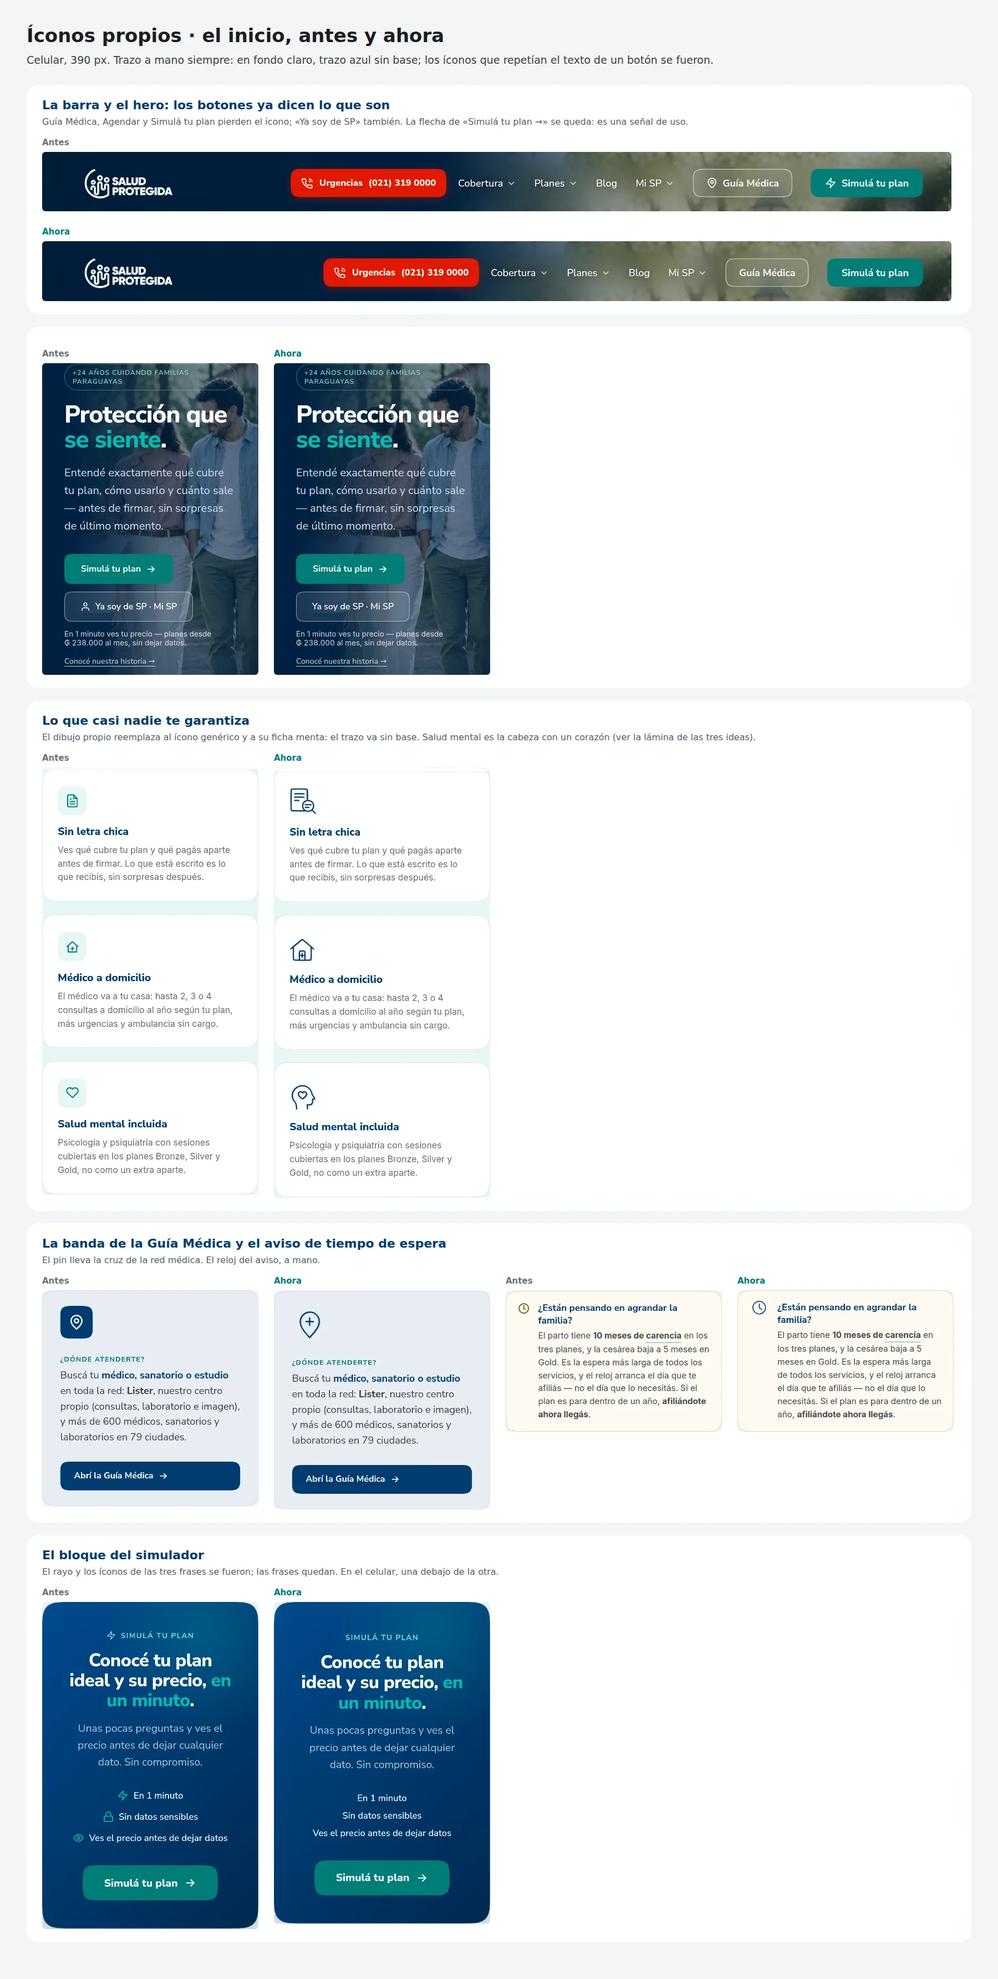
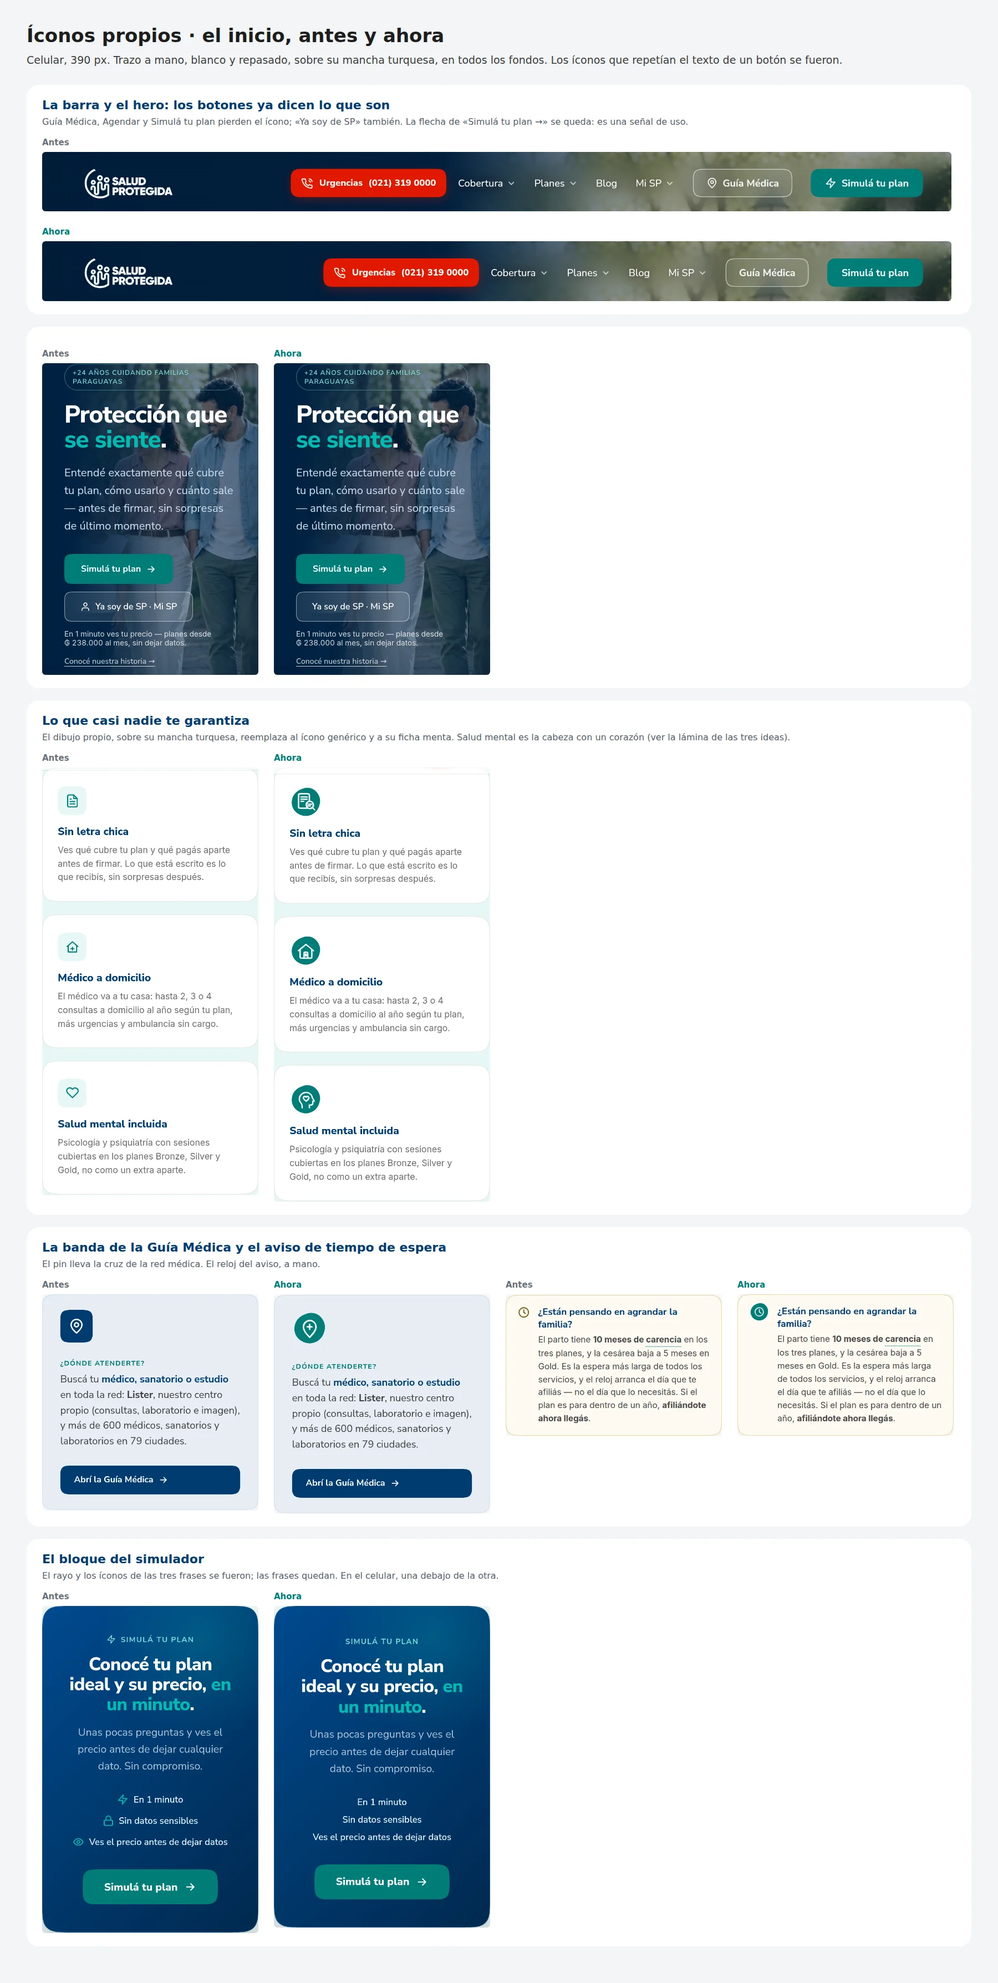
Íconos: A3 en todas partes, con el trazo repasado
Arturo: «no era que íbamos a seleccionar todo A3?» y «Hay algo humano y
auténtico en eso». Todos los íconos propios van en trazo blanco sobre su
mancha turquesa, en cualquier fondo; el trazo va repasado para que la mano
se siga viendo dentro del círculo. Las portadas del blog, el mismo trazo
repasado sobre su base translúcida.

- IconoSP sin la prop `fondo`; márgenes de las tarjetas ajustados.
- Láminas: comparación en siete lugares reales y el repasado; antes y
  ahora y el juego completo, rehechos en A3.
- README lección 13 reescrita y lección 16; BITACORA cap. 98; HANDOFF y
  la regla de CLAUDE.md.

Claude-Session: https://claude.ai/code/session_01Mud5keuuBCwoWTMHuiZFvU

diff --git a/app/components/IconoSP.jsx b/app/components/IconoSP.jsx
@@ -1,41 +1,34 @@
 import { DIBUJOS, MANCHA } from './iconos-sp';
 
-/* IconoSP — los íconos propios de SP (24/09/2026). Trazo a mano siempre; el
-   color lo decide el fondo, no el ícono (Arturo: «La combinación de colores
-   depende del fondo; debemos elegir la aplicación correcta según el color de
-   fondo»). Medido en la prueba de fondos (docs/diseno, lección 10):
+/* IconoSP — los íconos propios de SP (24/09/2026). Trazo a mano, blanco, sobre
+   su mancha turquesa, en todos los fondos del sitio (A3). Es el único
+   tratamiento que funcionó en los cuatro fondos porque trae su propia base
+   (docs/diseno, lección 10), y el que eligió Arturo: *«no era que íbamos a
+   seleccionar todo A3?»*, y del trazo, *«Hay algo humano y auténtico en eso»*
+   (lección 16).
 
-   - fondo="claro" (blanco, gris de la guía, menta): trazo azul sin base, con
-     el trazo repasado apenas corrido (A2). Sobre azul desaparece (1,3 a 1).
-   - fondo="azul": trazo blanco sobre su mancha turquesa (A3), el único trazo a
-     mano que funciona en los cuatro fondos porque trae su propia base.
+   El trazo va repasado, apenas corrido, como un lápiz que pasó dos veces: es
+   lo que hace que se lea «lo hizo una persona» aunque el dibujo sea chico.
 
    Solo va donde un ícono hace algo que el texto solo no hace (lección 7): en
    un botón que ya dice «Guía Médica», no. Siempre acompaña a un texto, así que
-   el lector de pantalla no lo anuncia. Los dibujos están en ./iconos-sp.js. */
-export default function IconoSP({ nombre, fondo = 'claro', size = 48, style }) {
+   el lector de pantalla no lo anuncia. Los dibujos están en ./iconos-sp.js;
+   las portadas del blog los usan con su propia base (app/blog/Cover.jsx). */
+export default function IconoSP({ nombre, size = 48, style }) {
   const trazos = DIBUJOS[nombre];
   if (!trazos) return null;
-  const caja = { viewBox: '0 0 48 48', width: size, height: size, 'aria-hidden': true, focusable: 'false', style: { display: 'block', flex: 'none', overflow: 'visible', ...style } };
-  const linea = { fill: 'none', strokeLinecap: 'round', strokeLinejoin: 'round' };
   const paths = trazos.map((d) => <path key={d} d={d} />);
-
-  if (fondo === 'azul') {
-    return (
-      <svg {...caja}>
-        <path d={MANCHA} fill="#007d77" />
-        <g transform="translate(24 24.5) scale(.66) translate(-24 -24)" {...linea} stroke="#fff" strokeWidth="3.2">{paths}</g>
-      </svg>
-    );
-  }
-
-  // Al achicarse, el trazo engorda en el dibujo para no bajar de ~1,3 px en
-  // pantalla: a 48 px va a 1,7; a 24 px, a 2,6.
-  const ancho = Math.max(1.7, 62 / size);
+  const linea = { fill: 'none', stroke: '#fff', strokeLinecap: 'round', strokeLinejoin: 'round' };
+  // Al achicarse, el trazo engorda en el dibujo para seguir leyéndose: a 48 px
+  // va a 2,8; a 24 px, a 3,2.
+  const ancho = Math.max(2.8, 76 / size);
   return (
-    <svg {...caja}>
-      <g opacity=".4" transform="translate(.8 .6) rotate(.8 24 24)" {...linea} stroke="#003B71" strokeWidth={+(ancho * 0.82).toFixed(2)}>{paths}</g>
-      <g {...linea} stroke="#003B71" strokeWidth={+ancho.toFixed(2)}>{paths}</g>
+    <svg viewBox="0 0 48 48" width={size} height={size} aria-hidden="true" focusable="false" style={{ display: 'block', flex: 'none', overflow: 'visible', ...style }}>
+      <path d={MANCHA} fill="#007d77" />
+      <g transform="translate(24 24.5) scale(.66) translate(-24 -24)">
+        <g opacity=".45" transform="translate(1.1 .9) rotate(.8 24 24)" {...linea} strokeWidth={+(ancho * 0.78).toFixed(2)}>{paths}</g>
+        <g {...linea} strokeWidth={+ancho.toFixed(2)}>{paths}</g>
+      </g>
     </svg>
   );
 }

diff --git a/app/mi-sp/MiSP.jsx b/app/mi-sp/MiSP.jsx
@@ -34,7 +34,7 @@ export default function MiSP() {
           <div className="misp-grid" style={css('display:grid;grid-template-columns:1.4fr 1fr;gap:16px;margin-bottom:40px')}>
             <a href={`${BP}/guia/guia_home.html#mi-red`} onClick={() => go('ver_red')} className="sq tarjeta-toque" style={css('display:flex;flex-direction:column;justify-content:space-between;gap:18px;background:#fff;color:var(--sp-navy);--sq:var(--r-lg);padding:26px 24px;min-height:190px')}>
               <div>
-                <IconoSP nombre="red" size={52} style={{ marginLeft: -6, marginBottom: 10 }} />
+                <IconoSP nombre="red" size={52} style={{ marginBottom: 12 }} />
                 <div style={css('font-size:19px;font-weight:800;margin-bottom:5px')}>Ver mi red de atención</div>
                 <div style={css('font-size:14px;color:var(--sp-text);line-height:1.55')}>Con tu cédula y fecha de nacimiento, mirá los sanatorios, médicos y farmacias que entran en tu plan.</div>
               </div>
@@ -57,7 +57,7 @@ export default function MiSP() {
           <div className="misp-soon" style={css('display:grid;grid-template-columns:repeat(4,1fr);gap:14px')}>
             {PROXIMAMENTE.map((t, i) => (
               <div key={i} className="sq" style={css('background:rgba(255,255,255,0.05);border:1px dashed rgba(255,255,255,0.22);--sq:var(--r-md);padding:20px 18px')}>
-                <IconoSP nombre={t.icono} fondo="azul" size={46} style={{ marginBottom: 12 }} />
+                <IconoSP nombre={t.icono} size={46} style={{ marginBottom: 12 }} />
                 <div style={css('font-size:14.5px;font-weight:800;color:#fff;margin-bottom:5px')}>{t.title}</div>
                 <div style={css('font-size:12.5px;color:var(--sp-blue-meta);line-height:1.5')}>{t.body}</div>
               </div>

diff --git a/app/blog/Cover.jsx b/app/blog/Cover.jsx
@@ -37,9 +37,10 @@ const DEFAULT_THEME = { g1: '#006B66', g2: '#00BCB4', soft: '#80DDD8', ring: '#B
 // El ícono de cada categoría es de la misma mano que el resto del sitio
 // (app/components/iconos-sp.js, 24/09/2026): papel, edificio con cruz,
 // escudo, corazón y sol sobre el horizonte; sin categoría, el libro. Va en
-// trazo blanco sobre la base translúcida de la portada, no sobre la mancha
-// turquesa de A3: sobre Sage, Lavender o Terracota la mancha mezclaría dos
-// territorios, que la marca no permite.
+// trazo blanco repasado, como en todo el sitio, pero sobre la base
+// translúcida de la portada y no sobre la mancha turquesa: sobre Sage,
+// Lavender o Terracota la mancha mezclaría dos territorios, que la marca no
+// permite.
 const trazosDe = (categoria) => DIBUJOS[ICONO_CATEGORIA[categoria] || 'libro'];
 
 // Hash FNV-1a → variación determinística por slug (sin Math.random, que el
@@ -182,8 +183,9 @@ export default function Cover({ categoria, slug, cover, dato, alt = '', aspect =
       ) : (
         <g transform="translate(26,110)">
           <rect width="62" height="62" rx="17" fill="#ffffff" fillOpacity="0.15" stroke="#ffffff" strokeOpacity="0.32" />
-          <g transform="translate(7,7)" fill="none" stroke="#ffffff" strokeWidth="2.3" strokeLinecap="round" strokeLinejoin="round">
-            {trazos.map((d) => <path key={d} d={d} />)}
+          <g transform="translate(7,7)" fill="none" stroke="#ffffff" strokeLinecap="round" strokeLinejoin="round">
+            <g opacity="0.45" transform="translate(0.9 0.7) rotate(0.8 24 24)" strokeWidth="1.8">{trazos.map((d) => <path key={d} d={d} />)}</g>
+            <g strokeWidth="2.3">{trazos.map((d) => <path key={d} d={d} />)}</g>
           </g>
         </g>
       )}

diff --git a/app/guia-medica/GuiaMedica.jsx b/app/guia-medica/GuiaMedica.jsx
@@ -359,7 +359,7 @@ export default function GuiaMedica() {
         <Plegable abierto={visar} enColumna>
           <section ref={refVisar} aria-label="Visar una orden médica" className="sq" style={css('--sq:var(--r-md);scroll-margin-top:90px;background:#fff;border:1.5px solid var(--sp-teal-deep);padding:16px;display:flex;flex-direction:column;gap:10px')}>
             <div style={css('display:flex;justify-content:space-between;align-items:center')}>
-              <div style={css('display:flex;align-items:center;gap:8px')}><IconoSP nombre="orden" size={40} style={{ marginLeft: -4 }} /><h2 className="disp" style={css('margin:0;font-size:18px;font-weight:900;color:var(--sp-navy)')}>Visá tu orden médica</h2></div>
+              <div style={css('display:flex;align-items:center;gap:8px')}><IconoSP nombre="orden" size={40} /><h2 className="disp" style={css('margin:0;font-size:18px;font-weight:900;color:var(--sp-navy)')}>Visá tu orden médica</h2></div>
               <button type="button" onClick={() => setVisar(false)} aria-label="Cerrar" style={css('width:36px;height:36px;border-radius:var(--r-pill);border:none;background:var(--gm-fondo);color:var(--sp-text-2);display:flex;align-items:center;justify-content:center;cursor:pointer')}>{Icono.x}</button>
             </div>
             <p style={css(INTER + 'margin:0;font-size:14px;line-height:1.5;color:var(--sp-text-2)')}>Mandá una foto de la orden y decinos dónde te vas a hacer el estudio. La visación vale 30 días.</p>

diff --git a/app/page.jsx b/app/page.jsx
@@ -906,7 +906,7 @@ export default function Page() {
             <div data-rv className="two-col" style={css('display:grid;grid-template-columns:repeat(3,1fr);gap:20px')}>
               {v.difs.map((dz, i) => (
                 <div className="sq" key={i} style={css('background:#fff;--sq:var(--r-lg);padding:28px 24px;border:1px solid var(--sp-line)')}>
-                  <IconoSP nombre={dz.icono} size={52} style={{ marginLeft: -6, marginBottom: 12 }} />
+                  <IconoSP nombre={dz.icono} size={52} style={{ marginBottom: 14 }} />
                   <div style={css('font-size:17px;font-weight:800;color:var(--sp-navy);line-height:1.3;margin-bottom:7px')}>{dz.title}</div>
                   <div style={css('font-size:14px;color:var(--sp-muted);line-height:1.55;font-family:var(--font-inter),sans-serif')}>{dz.body}</div>
                 </div>

diff --git a/app/components/iconos-sp.js b/app/components/iconos-sp.js
@@ -3,9 +3,9 @@
 // para verse de 20 a 60 px. El trazo no cierra perfecto a propósito: es lo que
 // hace que se lea «lo hizo una persona» (docs/diseno, lecciones 6 a 12).
 //
-// El color no vive acá: lo pone IconoSP según el fondo (claro → trazo azul
-// sin base; azul → trazo blanco sobre su mancha turquesa). Las portadas del
-// blog usan el trazo blanco sobre su propia base translúcida.
+// El color no vive acá: IconoSP los dibuja en trazo blanco repasado sobre su
+// mancha turquesa, en todos los fondos (A3). Las portadas del blog usan el
+// mismo trazo sobre su propia base translúcida.
 //
 // Un dibujo nuevo se hace simple: lo que limita el tamaño es el detalle, no el
 // estilo (lección 11). Y antes de sumarlo, la regla de Arturo: un ícono se gana

diff --git a/HANDOFF.md b/HANDOFF.md
@@ -21,18 +21,21 @@ que documenta la implementación técnica de la página de planes.
 
 Arturo, sobre los íconos del sitio: eran genéricos (librería Lucide, la usan
 miles de sitios), y quería íconos *«más creativos, más nuestros»*. Recorrido
-completo, con sus láminas, en `docs/diseno/` (lecciones 6 a 15). Después de las
+completo, con sus láminas, en `docs/diseno/` (lecciones 6 a 16). Después de las
 pruebas, el paso: *«ya podemos ir aplicando los cambios según lo que hablamos
-en la página»* (24/09/2026).
+en la página»* (24/09/2026). Y al ver la primera versión (azul sin base en los
+fondos claros), la corrección: *«no era que íbamos a seleccionar todo A3?»* y
+*«la idea era que también ese estilo gráfico de trazo a mano. Hay algo humano y
+auténtico en eso»* (BITACORA cap. 98).
 
 **La regla (no re-litigar sin motivo):**
-- **Trazo a mano siempre, una sola mano.** El color lo decide el fondo:
-  - **fondo claro** (blanco, gris de la guía, menta) → trazo azul sin base,
-    con el repasado apenas corrido (A2);
-  - **fondo azul** → trazo blanco sobre su mancha turquesa (A3);
-  - **portadas del blog** → trazo blanco sobre la base translúcida de la
-    portada. La mancha turquesa mezclaría territorios de color (Sage, Lavender,
-    Terracota) que la marca no deja mezclar.
+- **Trazo a mano, blanco y repasado, sobre su mancha turquesa, en todos los
+  fondos (A3).** Es el único tratamiento que funcionó en los cuatro fondos del
+  sitio, porque trae su propia base. El repasado (un segundo trazo al 45 %,
+  apenas corrido) es lo que mantiene la mano visible dentro del círculo.
+- **Portadas del blog:** el mismo trazo blanco repasado, sobre la base
+  translúcida de la portada. La mancha turquesa mezclaría territorios de color
+  (Sage, Lavender, Terracota) que la marca no deja mezclar.
 - **Un ícono se gana su lugar** (regla de Arturo): solo si hace algo que el
   texto solo no hace. En un botón que ya dice «Guía Médica», no va.
 - **Las señales de uso se quedan simples:** flechas, tildes, flechitas de menú,
@@ -41,18 +44,19 @@ en la página»* (24/09/2026).
 - **La «Línea SP» (sacada del isotipo) queda descartada.** Arturo: *«No se ve
   como un toque personal.»* Que ninguna sesión la retome.
 
-**Cómo se usa.** `IconoSP` (`app/components/IconoSP.jsx`) con `nombre`,
-`fondo` (`claro` o `azul`) y `size`. Los dibujos están en
-`app/components/iconos-sp.js`: 19 dibujos en un cuadro de 48×48. Un dibujo nuevo va ahí, en la misma mano y simple:
-lo que limita el tamaño es el detalle, no el estilo.
+**Cómo se usa.** `IconoSP` (`app/components/IconoSP.jsx`) con `nombre` y
+`size`; el mismo ícono sirve en cualquier fondo. Los dibujos están en
+`app/components/iconos-sp.js`: 19 dibujos en un cuadro de 48×48. Un dibujo
+nuevo va ahí, en la misma mano y simple: lo que limita el tamaño es el
+detalle, no el estilo.
 
 **Dónde se aplicó (9 lugares):**
 - Inicio: «Lo que casi nadie te garantiza» (papel con lupa, casa con la cruz,
   cabeza con un corazón, elegida por Arturo entre tres ideas: *«Vamos con la
   cabeza con el corazón»*), la banda de la Guía Médica (pin con la cruz; Lister
   en la rama sin guía) y el aviso de tiempo de espera (reloj).
-- Mi SP: «Ver mi red» (pin con la cruz, sobre blanco) y «En camino» (plan,
-  credencial, turnos y pagos, sobre azul).
+- Mi SP: «Ver mi red» (pin con la cruz) y «En camino» (plan, credencial,
+  turnos y pagos).
 - Simulador: el final. **Hoy siempre se ve «¡Listo! Falta un solo toque»**,
   porque `HUBSPOT_FORM_ID` está vacío y el lead va por WhatsApp: el dibujo es
   un globo con la flecha de enviar, no un tilde (todavía no se mandó nada). El

diff --git a/docs/diseno/README.md b/docs/diseno/README.md
@@ -183,9 +183,9 @@ sobre el círculo turquesa (A3).
 
 **Después (24/09/2026):** Arturo dio el paso (*«ya podemos ir aplicando los
 cambios según lo que hablamos en la página»*) y la propuesta se aplicó al sitio.
-Lecciones 13 a 15.
+Al verla, la corrigió: todo A3 (lección 16). Lecciones 13 a 16.
 
-### 13 · Una sola mano, y el fondo elige el color
+### 13 · Una sola mano para todo el sitio
 
 ![El juego completo de íconos propios, en sus fondos y tamaños](img/2026-09-24-iconos-juego-completo.webp)
 
@@ -193,13 +193,12 @@ Lecciones 13 a 15.
 azul, y chicas a 24 y 32 px. Las del blog, además, sobre su portada.
 
 **Qué se decidió.** Todas salen de la misma mano: el trazo que no cierra
-perfecto y el repasado apenas corrido. El color no es del ícono, es del fondo:
-en claro, trazo azul sin base; en azul, trazo blanco sobre su mancha turquesa.
-Las portadas del blog son la excepción que confirma la regla: van en trazo
-blanco sobre la base translúcida de la portada, porque la mancha turquesa sobre
-Sage, Lavender o Terracota mezclaría dos territorios de color que la marca no
-deja mezclar. Los dibujos viven en `app/components/iconos-sp.js` y se ponen con
-`IconoSP`.
+perfecto, repasado y apenas corrido, blanco sobre su mancha turquesa. El mismo
+ícono sirve en cualquier fondo porque trae su propia base. Las portadas del blog
+llevan el mismo trazo sobre la base translúcida de la portada: la mancha
+turquesa sobre Sage, Lavender o Terracota mezclaría dos territorios de color que
+la marca no deja mezclar. Los dibujos viven en `app/components/iconos-sp.js` y
+se ponen con `IconoSP`.
 
 ### 14 · El dibujo dice lo que pasa de verdad
 
@@ -233,3 +232,24 @@ general. Las tres quedan dibujadas hasta que Arturo elija.
 **Qué se decidió.** Arturo: *«Vamos con la cabeza con el corazón»*. Dice mente y
 cuidado a la vez, y no se confunde con ningún otro ícono del sitio. Las otras dos
 salieron del archivo de dibujos; quedan en esta lámina.
+
+### 16 · La regla más simple, vista en su lugar
+
+![A2 en claro y A3 en azul, o A3 en todas partes, en los lugares reales](img/2026-09-24-iconos-a3-en-todas-partes.webp)
+
+![A3 con trazo único y con trazo repasado](img/2026-09-24-iconos-trazo-repasado.webp)
+
+**Qué muestra.** Arriba, siete lugares del sitio con las dos reglas que había
+sobre la mesa: trazo azul sin base en los fondos claros y A3 en el azul, o A3 en
+todas partes. Abajo, A3 con el trazo único, con el trazo repasado y con el
+dibujo más grande.
+
+**Qué se decidió.** A3 en todas partes. Arturo: *«no era que íbamos a
+seleccionar todo A3?»*, y del trazo, *«Hay algo humano y auténtico en eso»*. La
+propuesta de Claude había sido la de dos reglas, por miedo a que una fila de
+círculos turquesa iguales se volviera monótona sobre blanco. En los lugares
+reales ese miedo no se sostiene: los círculos quedan en secciones distintas y
+nunca forman una fila larga. Para que la mano se siga viendo dentro del círculo,
+el trazo va repasado (fila del medio). El dibujo más grande ya toca el borde de
+la mancha. La lección: una regla se juzga en su lugar, no en una lámina de íconos
+sueltos (como la lección 9), y ante dos reglas que funcionan gana la más simple.

diff --git a/BITACORA.md b/BITACORA.md
@@ -3549,3 +3549,34 @@ Y un ícono de estado se diseña para el estado que la gente ve de verdad, que n
 siempre es el que imaginamos: antes de dibujarlo, se lee qué rama toma el
 código hoy. Es la lección 2 del sistema táctil («cada movimiento avisa algo
 verdadero») llevada a un dibujo.
+
+## Capítulo 98 — «Lo que hablamos» no era lo que yo había propuesto (24/09/2026)
+
+**Qué intentamos.** Después de las pruebas de íconos había dos reglas sobre la
+mesa: la que propuso Claude (trazo azul sin base en los fondos claros y blanco
+sobre la mancha turquesa en el azul) y una más simple, la mancha turquesa en
+todas partes, que Claude mencionó y desaconsejó: una fila de círculos iguales
+sobre blanco podía volverse monótona. Arturo dijo *«ya podemos ir aplicando los
+cambios según lo que hablamos en la página»*, y Claude aplicó la de dos reglas.
+
+**Qué pasó.** Cuando el PR estaba por fusionarse, Arturo lo frenó: *«Espera, no
+era que íbamos a seleccionar todo A3?»*. Y enseguida: *«la idea era que también
+ese estilo gráfico de trazo a mano. Hay algo humano y auténtico en eso»*.
+«Lo que hablamos» era, para él, la mancha turquesa que le había gustado desde la
+primera lámina (*«con el circulito turquesa, el blanco interior queda muy
+bien»*), no la propuesta que se discutió al final. Se armó la comparación en
+siete lugares reales del sitio, y la monotonía que preocupaba no aparecía: los
+círculos caen en secciones distintas y nunca forman una fila. Quedó un detalle
+que sí importaba para lo humano que él pedía: dentro del círculo el dibujo se
+achica y pierde el trazo repasado, que es donde más se nota la mano. Se le
+devolvió el repasado.
+
+![A2 en claro y A3 en azul, o A3 en todas partes](docs/diseno/img/2026-09-24-iconos-a3-en-todas-partes.webp)
+
+**Qué aprendimos.** Cuando hay más de una opción sobre la mesa, «lo que
+hablamos» se confirma con el nombre de la opción antes de construir: una
+pregunta de una línea habría ahorrado un PR entero rehecho. Una preocupación
+que se formó mirando íconos sueltos se prueba en los lugares reales antes de
+convertirla en regla, como la lección 9 ya decía de los íconos mismos. Y ante
+dos reglas que funcionan, la más simple es más fácil de sostener: un ícono, un
+tratamiento, cualquier fondo.

diff --git a/CLAUDE.md b/CLAUDE.md
@@ -130,9 +130,9 @@ pierde (BITACORA cap. 96).
   campo o ícono · `--r-md` aviso o tarjeta chica · `--r-lg` tarjeta grande o
   tabla. Nunca un radio a mano: el QA integral lo cuenta.
 - **Los íconos son propios y se ganan su lugar** (24 sep 2026, BITACORA caps.
-  95 y 97). Un ícono nuevo sale de `app/components/iconos-sp.js` y se pone con
-  `IconoSP`: trazo a mano siempre, y el fondo decide el color (claro → trazo
-  azul sin base; azul → trazo blanco sobre su mancha turquesa). No se suman
+  95, 97 y 98). Un ícono nuevo sale de `app/components/iconos-sp.js` y se pone con
+  `IconoSP`: trazo a mano, blanco y repasado, sobre su mancha turquesa, en
+  todos los fondos (Arturo: *«Hay algo humano y auténtico en eso»*). No se suman
   íconos de librería, y un botón que ya dice lo que hace no lleva ícono. Las
   señales de uso (flechas, «×», lupa, WhatsApp, urgencias) se quedan simples.
 - Con `scroll-behavior:smooth`, medir después de `window.scrollTo()` es
